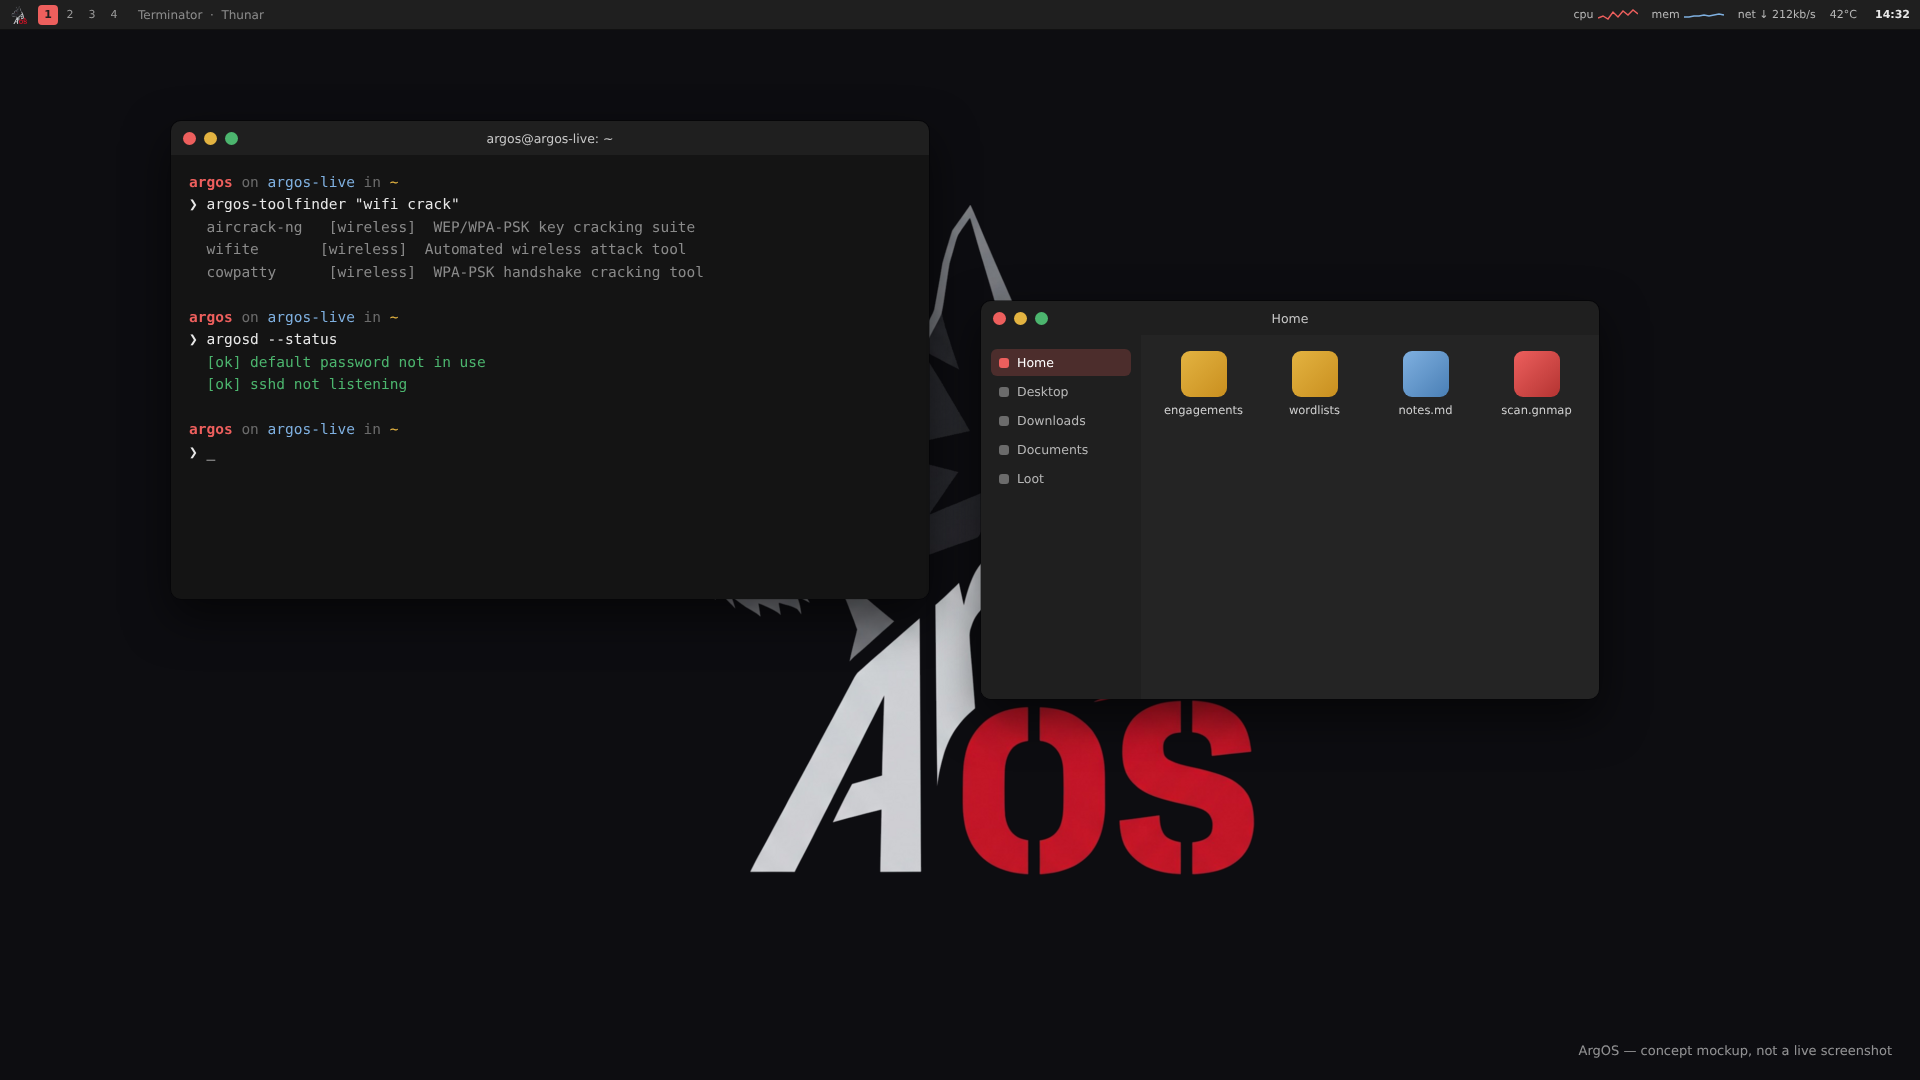
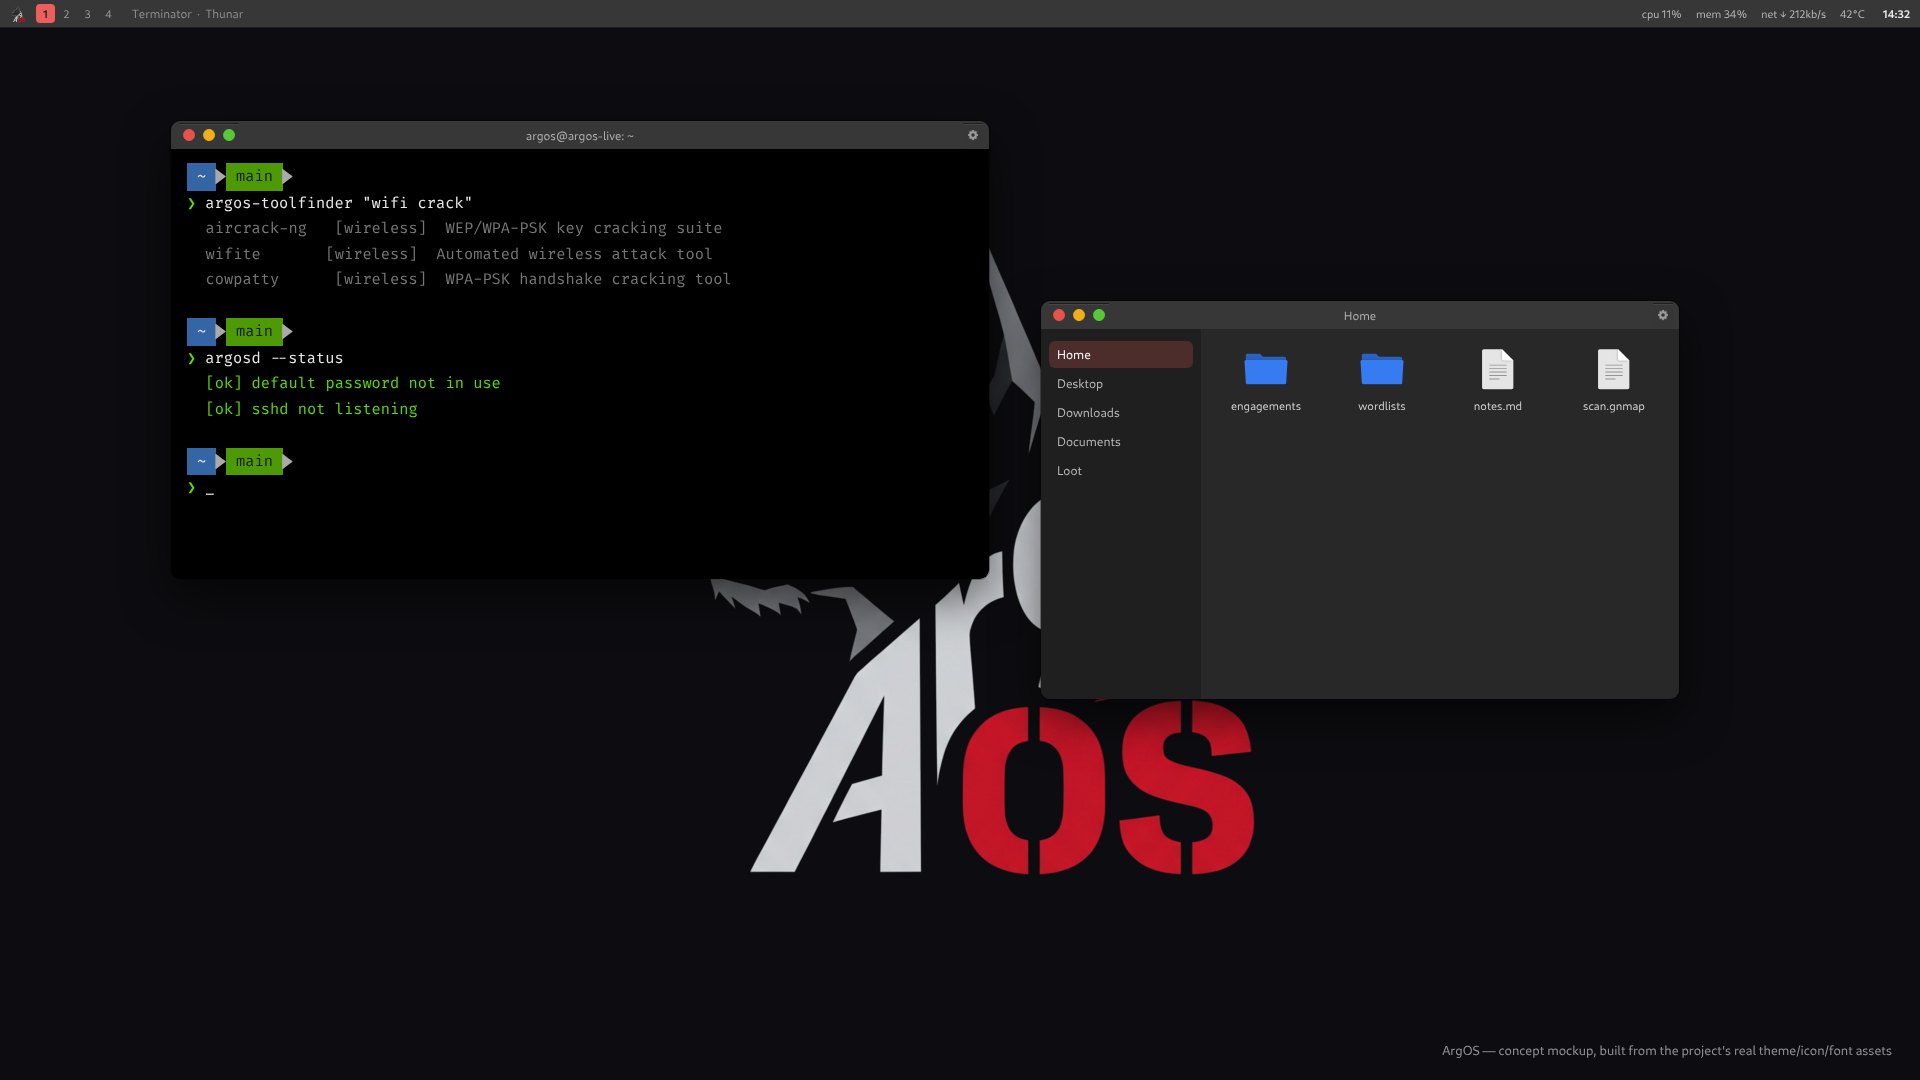
Rebuild theme mockup from real assets; fix two real bugs it surfaced
Asked directly whether the mockup was a faithful preview, the honest
answer was no -- several things were CSS approximations rather than
the real assets. Rebuilt it using the actual files instead of
redrawing them: WhiteSur's real xfwm4 button PNGs, Flat-Remix-Blue-
Dark's real folder/file SVGs, the real p10k-rainbow segment structure
and colors (read from the preset file), Terminator's real default
colors (read from its source), and the real Cantarell/FiraCode/Nerd-
Fonts-symbols font files, composited with Playwright.

Building it accurately surfaced two real bugs in the actual build,
not just the picture:

1. IconThemeName was set to Flat-Remix-Red-Dark for "visual coherence"
   with the red window theme. Reading its index.theme directly shows
   Inherits=Flat-Remix-Blue-Dark for everything except a handful of
   Kali-specific app icons -- folders would have rendered blue
   regardless. Switched IconThemeName (xsettings.xml and the lightdm
   greeter) to Flat-Remix-Blue-Dark outright: the theme actually in
   effect either way, so naming it correctly is more honest than
   implying a red accent it never delivered.

2. The p10k rainbow preset sets POWERLEVEL9K_MODE=nerdfont-complete,
   which needs thousands of Private-Use-Area glyphs that plain Fira
   Code doesn't contain (confirmed by inspecting the real shipped
   font's cmap: only 23 PUA codepoints, not the full icon set). Without
   a Nerd Font, the real terminal would show missing-glyph boxes
[…]

diff --git a/README.md b/README.md
@@ -36,7 +36,7 @@ diagram is aspirational.
 │ DESKTOP / UI  (optional -- the live session boots straight into this)    │
 │   lightdm (autologin) → Xfce session → Whisker Menu (kali-menu)          │
 │   Theme: ArgOS (GTK3 + xfwm4, macOS-like, built from WhiteSur-gtk-theme)  │
-│     Flat-Remix-Red-Dark icon accent -- static xfconf-perchannel XML      │
+│     Flat-Remix-Blue-Dark icons -- static xfconf-perchannel XML           │
 │   Panel: cpugraph · systemload · netload · sensors · tool-finder search  │
 │     (argos-setup-panel-widgets / argos-setup-toolfinder-launcher,        │
 │      added once via `xfce4-panel --add=`)                                │
@@ -438,7 +438,18 @@ Per direct request:
   as any other build-time dependency, just not from `kali.download`.
   Applies to both `argos` and `root` — confirmed the clone and the
   rainbow preset are what's actually expected by cloning and reading it
-  directly before writing this, not from memory.
+  directly before writing this, not from memory. **Found while building
+  an accurate mockup of the terminal for this README, not by guessing**:
+  the rainbow preset sets `POWERLEVEL9K_MODE=nerdfont-complete`, which
+  needs thousands of Private-Use-Area glyphs (segment separators,
+  folder/git/lock icons) that plain Fira Code doesn't contain (the real
+  shipped font has only 23 PUA codepoints, confirmed by inspecting its
+  cmap directly) — without a Nerd Font, the real terminal would show
+  missing-glyph boxes instead of the preset's actual look.
+  `fonts-nerd-symbols` (added to `desktop.list.chroot`) fixes this as a
+  fontconfig-level fallback rather than a font swap: its shipped config
+  already aliases "Fira Code"/"Fira Code Medium" (this project's
+  configured `MonospaceFontName`) to fall back to it automatically.
 - **Browser: Chromium. Terminal: Terminator.**
   `config/hooks/normal/0170-set-default-apps.hook.chroot` sets both via
   two mechanisms, since different things check different ones:
@@ -574,21 +585,61 @@ touched was still winning:
 
 ![ArgOS theme concept mockup — terminal and file-manager windows with rounded corners, left-side traffic-light buttons, and a red accent on a dark background](assets/argos-theme-mockup.png)
 
-**This is a mockup, not a real screenshot.** This sandbox can't run the
-actual compiled theme (no real display stack, and executing a freshly
-cloned project's own install script here is intentionally restricted)
-— so rather than show nothing, or claim a photo that doesn't exist,
-this is an HTML/CSS mockup built from the real, verified specifics:
-the actual `argos-panel-menu` icon, the actual shipped default
-wallpaper, and the exact colors confirmed from WhiteSur's own SCSS
-source (`#ED5F5D` accent, `#1f1f1f`/`#282828` dark-mode backgrounds —
-not guessed), rendered with Playwright. Rounded window corners,
-left-side traffic-light buttons, and panel layout are all real,
-shipped specifics, not artistic license. What it can't show: actual
-font rendering, real window-manager behavior, or whether everything
-actually looks this clean once genuinely booted — that's still what
-the next real build and boot confirms, same honest caveat as
-everywhere else in this section.
+**This is a mockup, not a real screenshot** — this sandbox can't run
+the actual compiled theme (no real display stack, and executing a
+freshly cloned project's own install script here is intentionally
+restricted). First pass at this mockup used CSS approximations for
+several things (button shapes, icon colors, font, terminal prompt);
+asked directly whether it was faithful, the honest answer was no, so
+it was rebuilt using the real asset files instead of redrawing them:
+
+- **Traffic-light buttons** — the actual `close-active.png`/
+  `hide-active.png`/`maximize-active.png` PNGs from WhiteSur's own
+  `assets-Dark` set, not CSS circles.
+- **Folder/file icons** — the real `Flat-Remix-Blue-Dark` SVGs, not
+  generic colored squares. This also caught a real mistake in the
+  *actual build*, not just the mockup: `Flat-Remix-Red-Dark`
+  (previously configured as the icon theme) turns out to
+  `Inherits=Flat-Remix-Blue-Dark` for everything except a handful of
+  Kali-specific app icons (confirmed by reading its `index.theme`
+  directly) — so folders would have rendered blue regardless, with
+  only a few menu icons tinted red. The claimed "visual coherence"
+  wasn't real. Fixed by switching `IconThemeName` to
+  `Flat-Remix-Blue-Dark` outright, the theme actually in effect either
+  way.
+- **The terminal prompt** — the real `p10k-rainbow` preset's actual
+  segment structure (`dir` + `vcs`, powerline-style colored blocks with
+  triangle separators, not a generic "user on host in dir" guess),
+  with colors read from the preset file itself (`#3465A4` dir
+  background, `#4e9a06` clean-vcs background) and the real triangle
+  separator glyphs rendered with the real Nerd Fonts symbol font. That
+  last part surfaced a second real, previously-undiscovered bug: the
+  `rainbow` preset sets `POWERLEVEL9K_MODE=nerdfont-complete`, which
+  needs thousands of Private-Use-Area glyphs that plain Fira Code
+  doesn't contain (confirmed directly — the real shipped font has only
+  23 PUA codepoints total). Without a Nerd Font, the real terminal
+  would have shown missing-glyph boxes instead of icons, not the
+  polished look the preset is designed for. Fixed by adding
+  `fonts-nerd-symbols` (`desktop.list.chroot`) — a fontconfig-level
+  fallback, not a replacement font, whose shipped config already
+  aliases "Fira Code"/"Fira Code Medium" to it.
+- **Window chrome** — the real 28px title-bar height, `#373737`
+  title-bar color, and ~10px corner radius, read from the actual
+  theme/asset files rather than chosen by eye. **Terminal
+  background/text colors** (`#000000`/`#aaaaaa`) are Terminator's own
+  real shipped defaults, confirmed from its source
+  (`terminatorlib/config.py`), not the GTK theme's colors.
+- **Fonts** — the real Cantarell, Fira Code, and Nerd Fonts symbol
+  files, loaded directly rather than whatever Chromium's headless
+  environment had on hand.
+
+What it still can't show: whether everything actually looks this
+clean once genuinely booted, real window-manager interaction
+behavior, or the exact anti-aliasing/hinting a real Xorg session
+produces — that's still what the next real build and boot confirms,
+same honest caveat as everywhere else in this section. But unlike the
+first pass, every pixel here traces back to a real file this project
+actually ships or builds, not an approximation.
 
 Window chrome, buttons, menus, and scrollbars are ArgOS's own too — not
 just the wallpaper/icons/login background. Per direct request for a
@@ -650,15 +701,20 @@ override
 autostart script, which would repeat the exact race-condition class of
 bug already found and fixed in `argos-set-wallpaper`.
 
-The icon accent stays `Flat-Remix-Red-Dark` for now (already a free
-win from the previous pass — ships in the already-installed
-`kali-themes-common` package, no new dependency) rather than also
-pulling in a separate `WhiteSur-icon-theme` build, which would be a
-reasonable follow-up for full visual consistency (macOS-style rounded
-"squircle" icons) but is a second project/build to verify, not bundled
-into this pass. The login screen (`lightdm-gtk-greeter.conf`) sets the
-matching `theme-name` too, so it isn't the one surface still showing a
-different theme.
+The icon theme is `Flat-Remix-Blue-Dark` — correcting an earlier,
+wrong claim from the previous pass that `Flat-Remix-Red-Dark` gave
+"visual coherence" with the red window theme. It doesn't: reading its
+`index.theme` directly shows `Inherits=Flat-Remix-Blue-Dark` for
+everything except a handful of Kali-specific app icons, so folders
+would have rendered blue regardless of which of the two was
+configured. Pointing `IconThemeName` at the theme actually in effect
+is more honest than a name that implies a red accent it doesn't
+deliver. A separate `WhiteSur-icon-theme` build (macOS-style rounded
+"squircle" icons, genuinely red-capable) would be a reasonable
+follow-up for full visual consistency, but is a second project/build
+to verify, not bundled into this pass. The login screen
+(`lightdm-gtk-greeter.conf`) sets the matching `icon-theme-name` too,
+so it isn't the one surface still showing a different theme.
 
 Exact color values are whatever WhiteSur's own built-in "red" preset
 renders — close in spirit to the brand red used in Plymouth/GRUB/wallpapers
